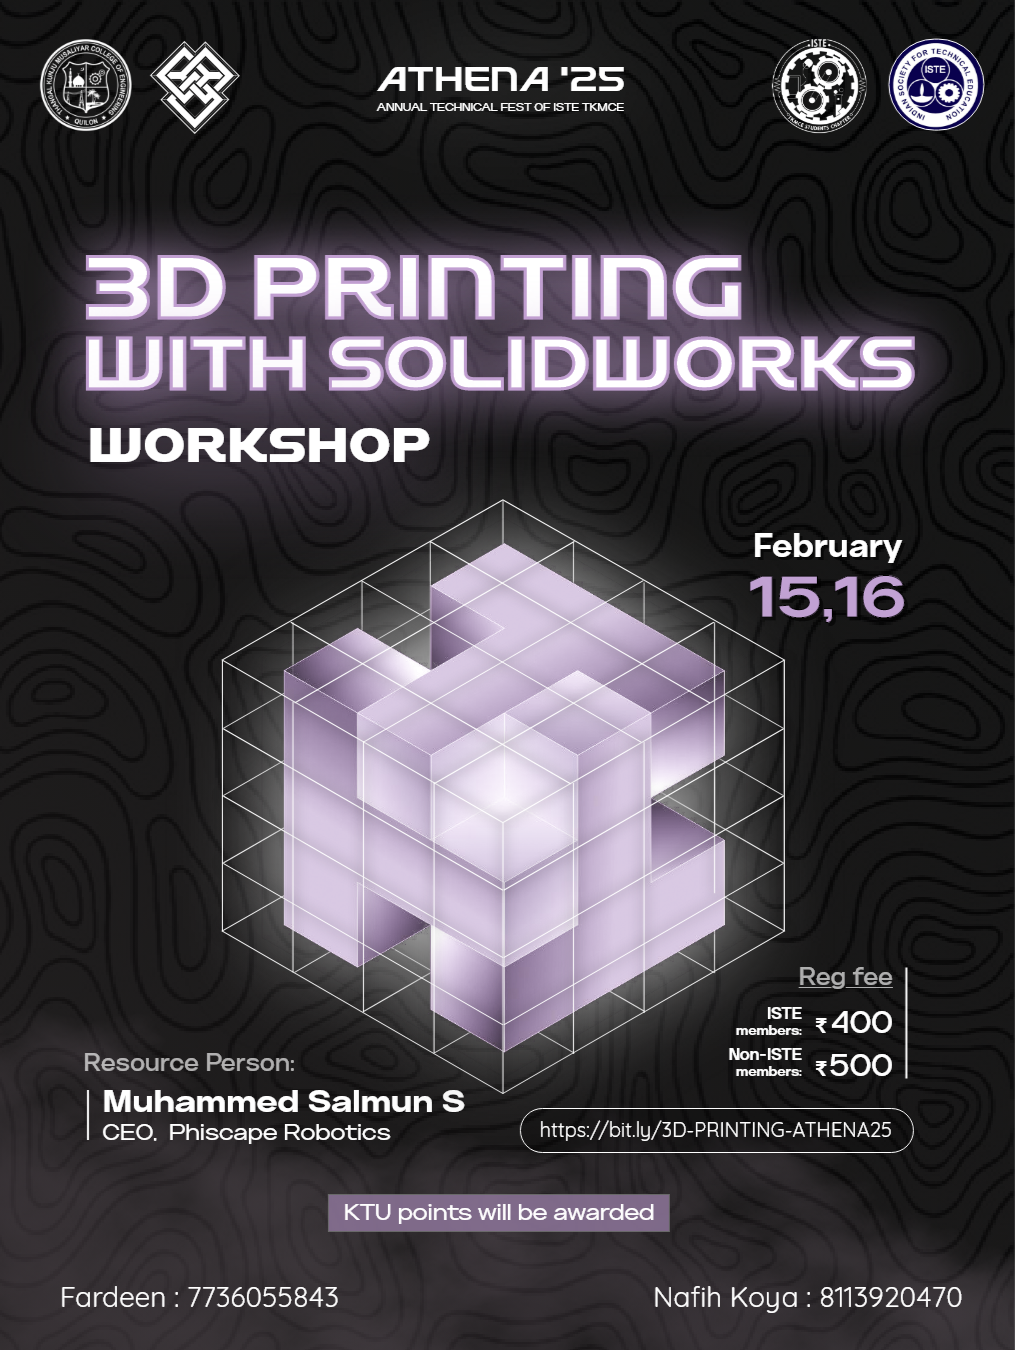
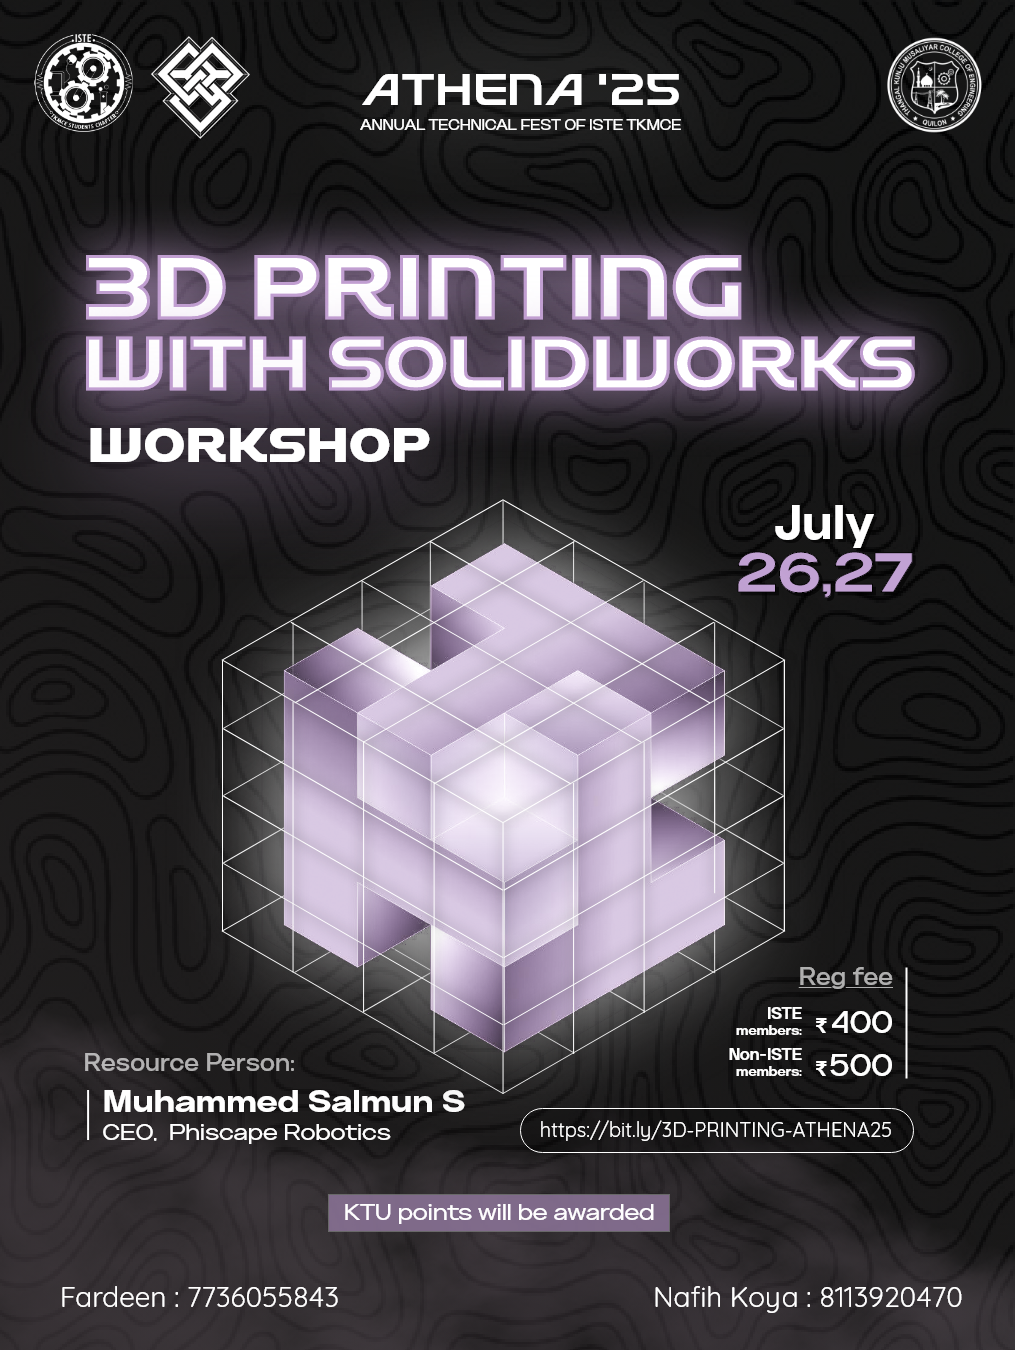
fbg

diff --git a/src/content/workshops.js b/src/content/workshops.js
@@ -3,9 +3,9 @@ const workshopDetails= [
         id: "3D-PRINTING-ATHENA25",
         name : "3D Printing Workshop With SolidWorks",
         details: "The 3D Printing with SolidWorks Workshop is a hands-on session where participants learn to design, model, and print their creations. Guided by Mr. Muhammed Salmun, CEO of Phiscape Robotics, this workshop covers 3D modeling fundamentals with real-world applications. Attendees will explore how 3D printing transforms ideas into prototypes, gaining practical experience in digital design. Whether you're a beginner or an innovator, this is your chance to turn imagination into reality!",
-        date : "15 Feb 2025",
+        date : "26-27 July 2025",
         posters: ["/events/3D-PRINTING-ATHENA25/poster.png","/events/3D-PRINTING-ATHENA25/Syllabus.png"],
-        deadline : "13 February, 2025",
+        deadline : "24 July, 2025",
         price : "₹500 for Non-ISTE members \n ₹400 for ISTE members",
         coordinators : [{name: "Fardeen", phone:"7736055843"},{name: "Nafih", phone:"8113920470"}],
         link: "https://makemypass.com/3d-printing-workshop-2",
@@ -14,11 +14,11 @@ const workshopDetails= [
 {
     id: "Generative-ai",
     name: "Generative ai",
-    details: "Dive into the world of Generative AI with this hands-on workshop, focusing on optimizing and deploying AI models. Led by Mr.Nandakishor M, the CEO and AI researcher of Convai Innovations, this session will explore AI fundamentals and real-world applications in an engaging and practical way.",
+    details: "Generative AI, presented by ISTE TKMCE as part of Athena ‘25, is a hands-on workshop that introduces participants to the exciting world of artificial intelligence through simple, practical learning. Dive into the fundamentals of Generative AI, explore transformer architectures, and gain real-world skills in optimizing and deploying AI models—all designed to make complex concepts easy and engaging for curious minds.",
     date: "27 July 2025",
-    posters: ["/events/Generative-AI/poster.png",
+    posters: ["/events/Generative-AI/poster.jpg",
               "/events/Generative-AI/Syllabus.png"],
-    price: "iste members - 300/-\n\nNon iste members -400/-",
+    price: "Iste members - 300/-  Non Iste members -400/-",
     coordinators: [
       { name: "DEVIKA A K", phone: " 7594827955" },
       { name: "DEVIKA D", phone: "85472 60003" },

diff --git a/src/content/events.js b/src/content/events.js
@@ -40,16 +40,17 @@ const eventsDetails = [
       "Nature’s Nest is an exciting design challenge that celebrates diversity in architecture and construction technology, urging participants to break free from traditional boundaries and unleash their creativity. The event invites you to reimagine modern design by exploring innovative solutions and shaping the future of architecture with fresh, forward-thinking approaches.",
     date: "20 - 26 July, 2025",
     posters: [
-      "/events/Nature's-Nest/logo.jpeg",
+      "/events/Nature's-Nest/logo.jpg",
       "/events/Nature's-Nest/guidelines.jpeg",
     ],
-    price: "200 RS",
+    price: "200 RS per TEAM",
     coordinators: [
       { name: "Rabia S", phone: " 7902655814" },
       { name: "Roshmina", phone: "7012682980" },
+      { name: "Asif Khan", phone: "6282981960" },
     ],
     link: "https://makemypass.com/event/natures-nest-1",
-    deadline: "18 July, 2025",
+    deadline: "19 July, 2025",
     isopen:true
   },
   {
